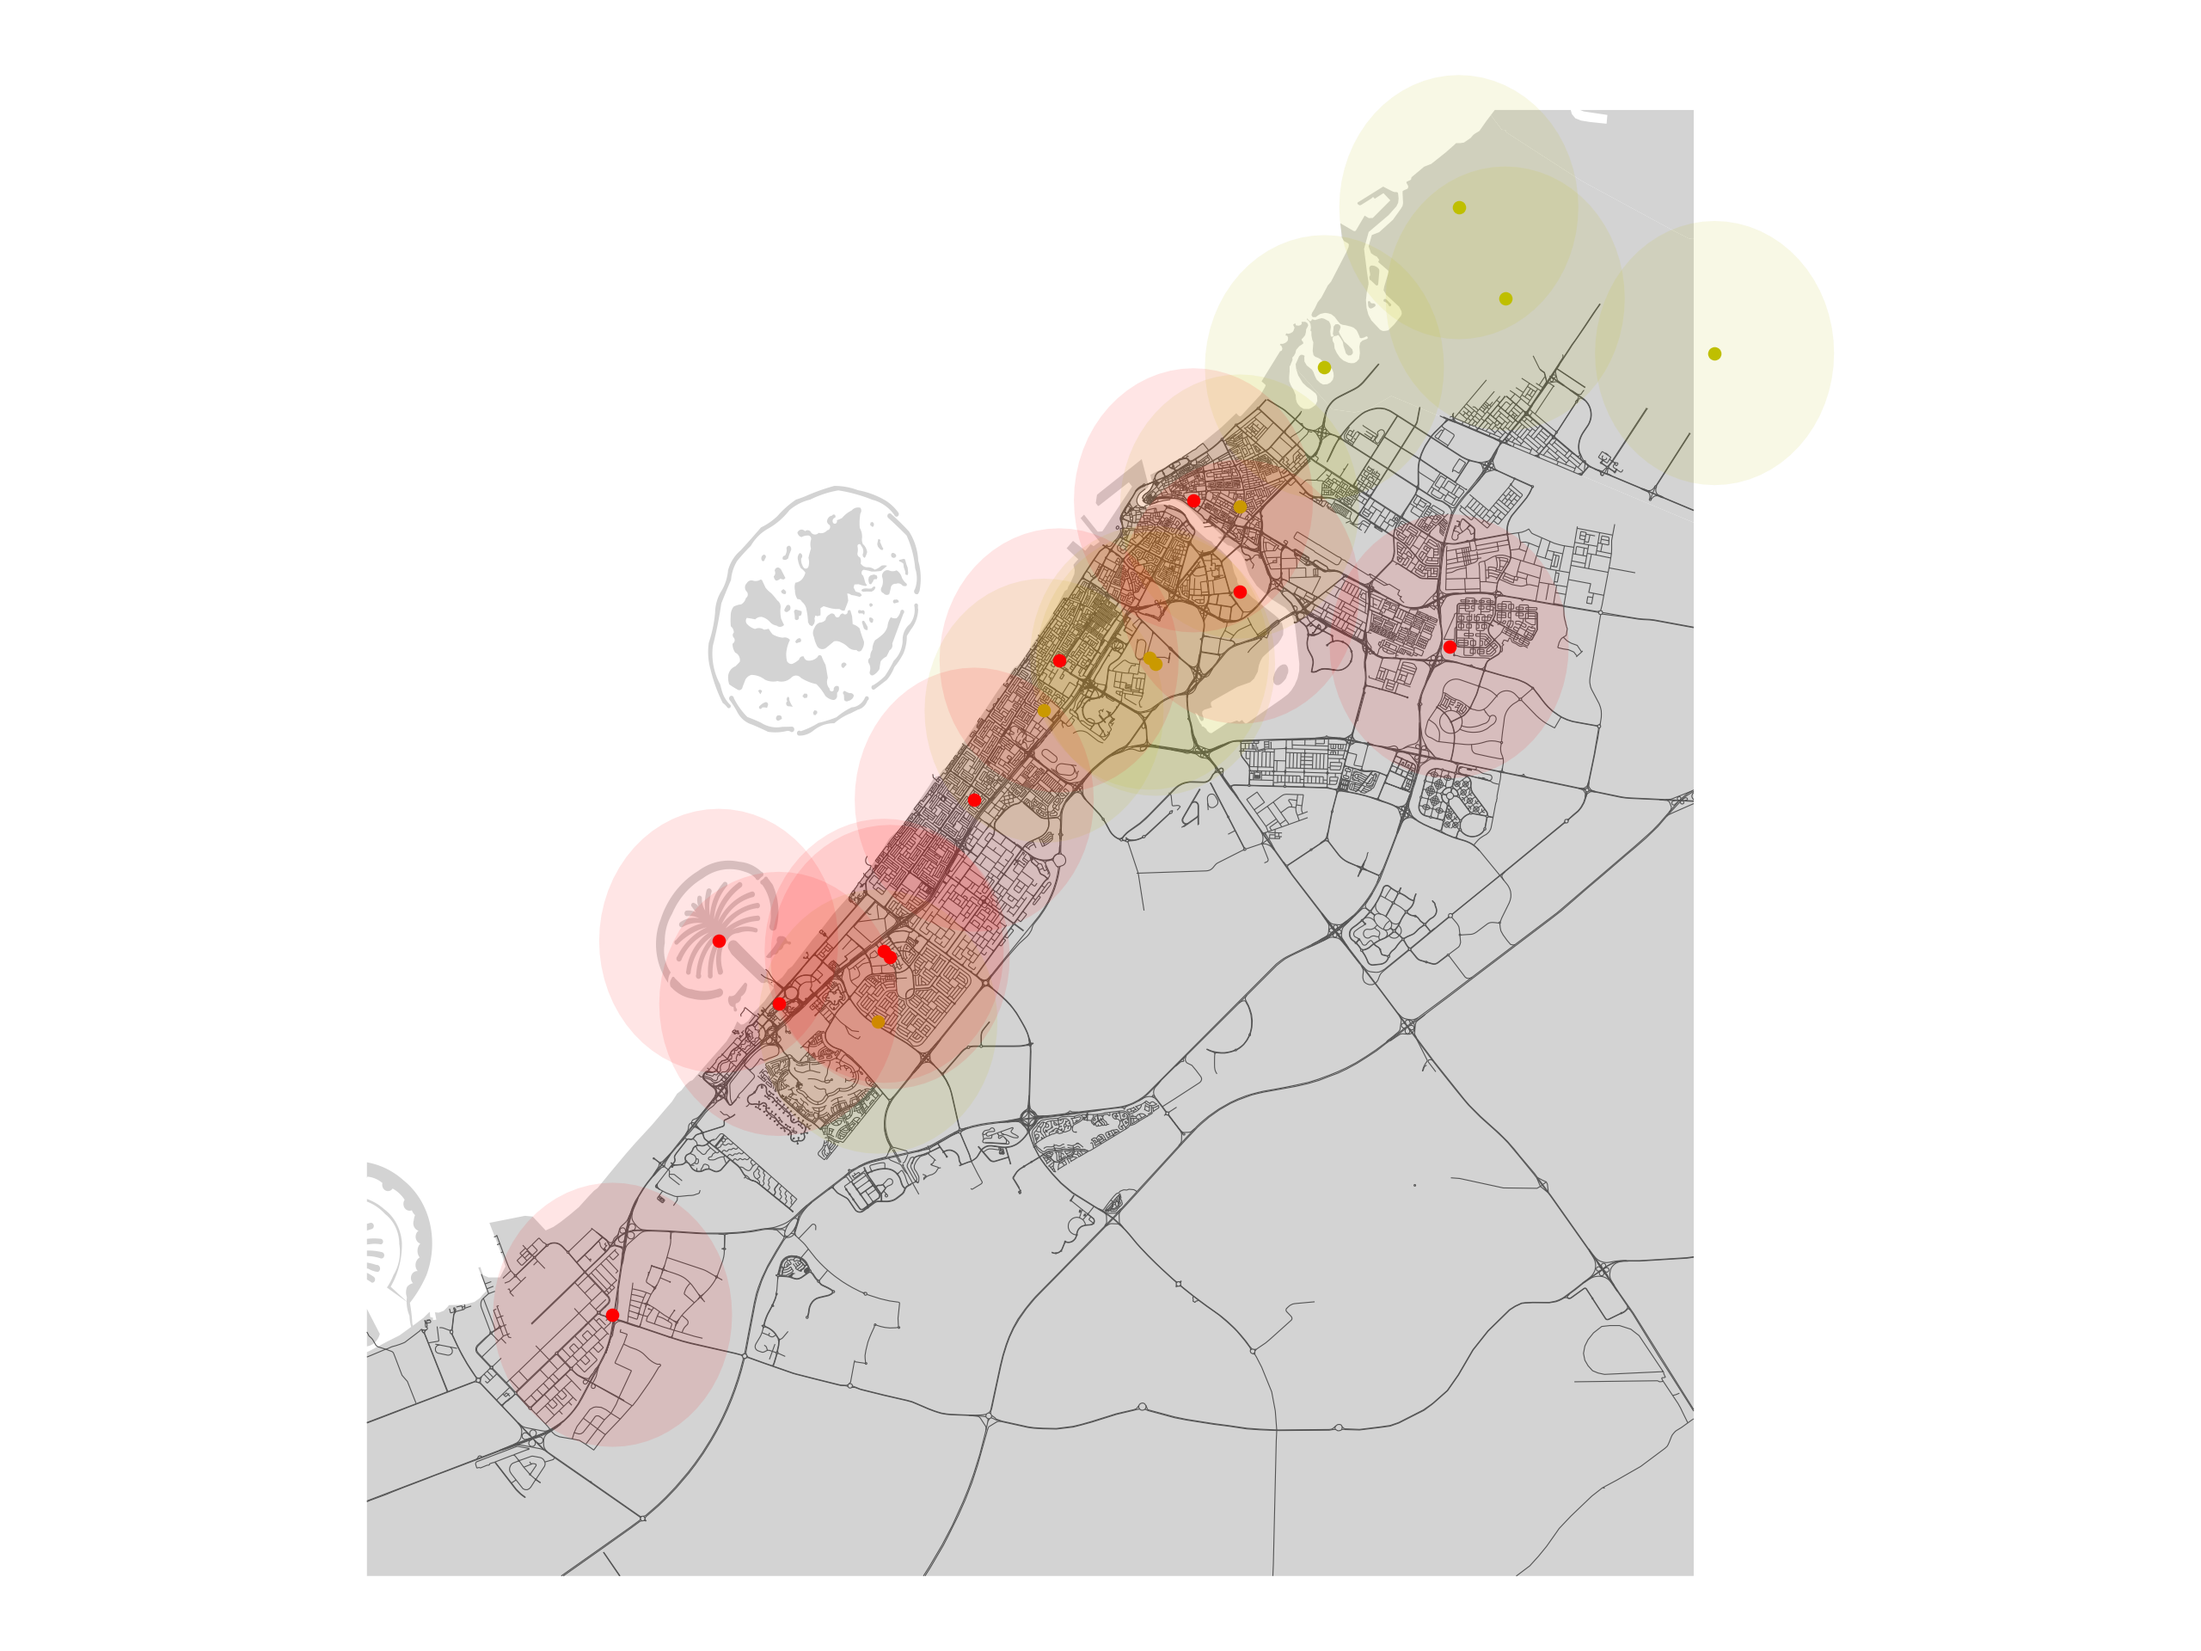
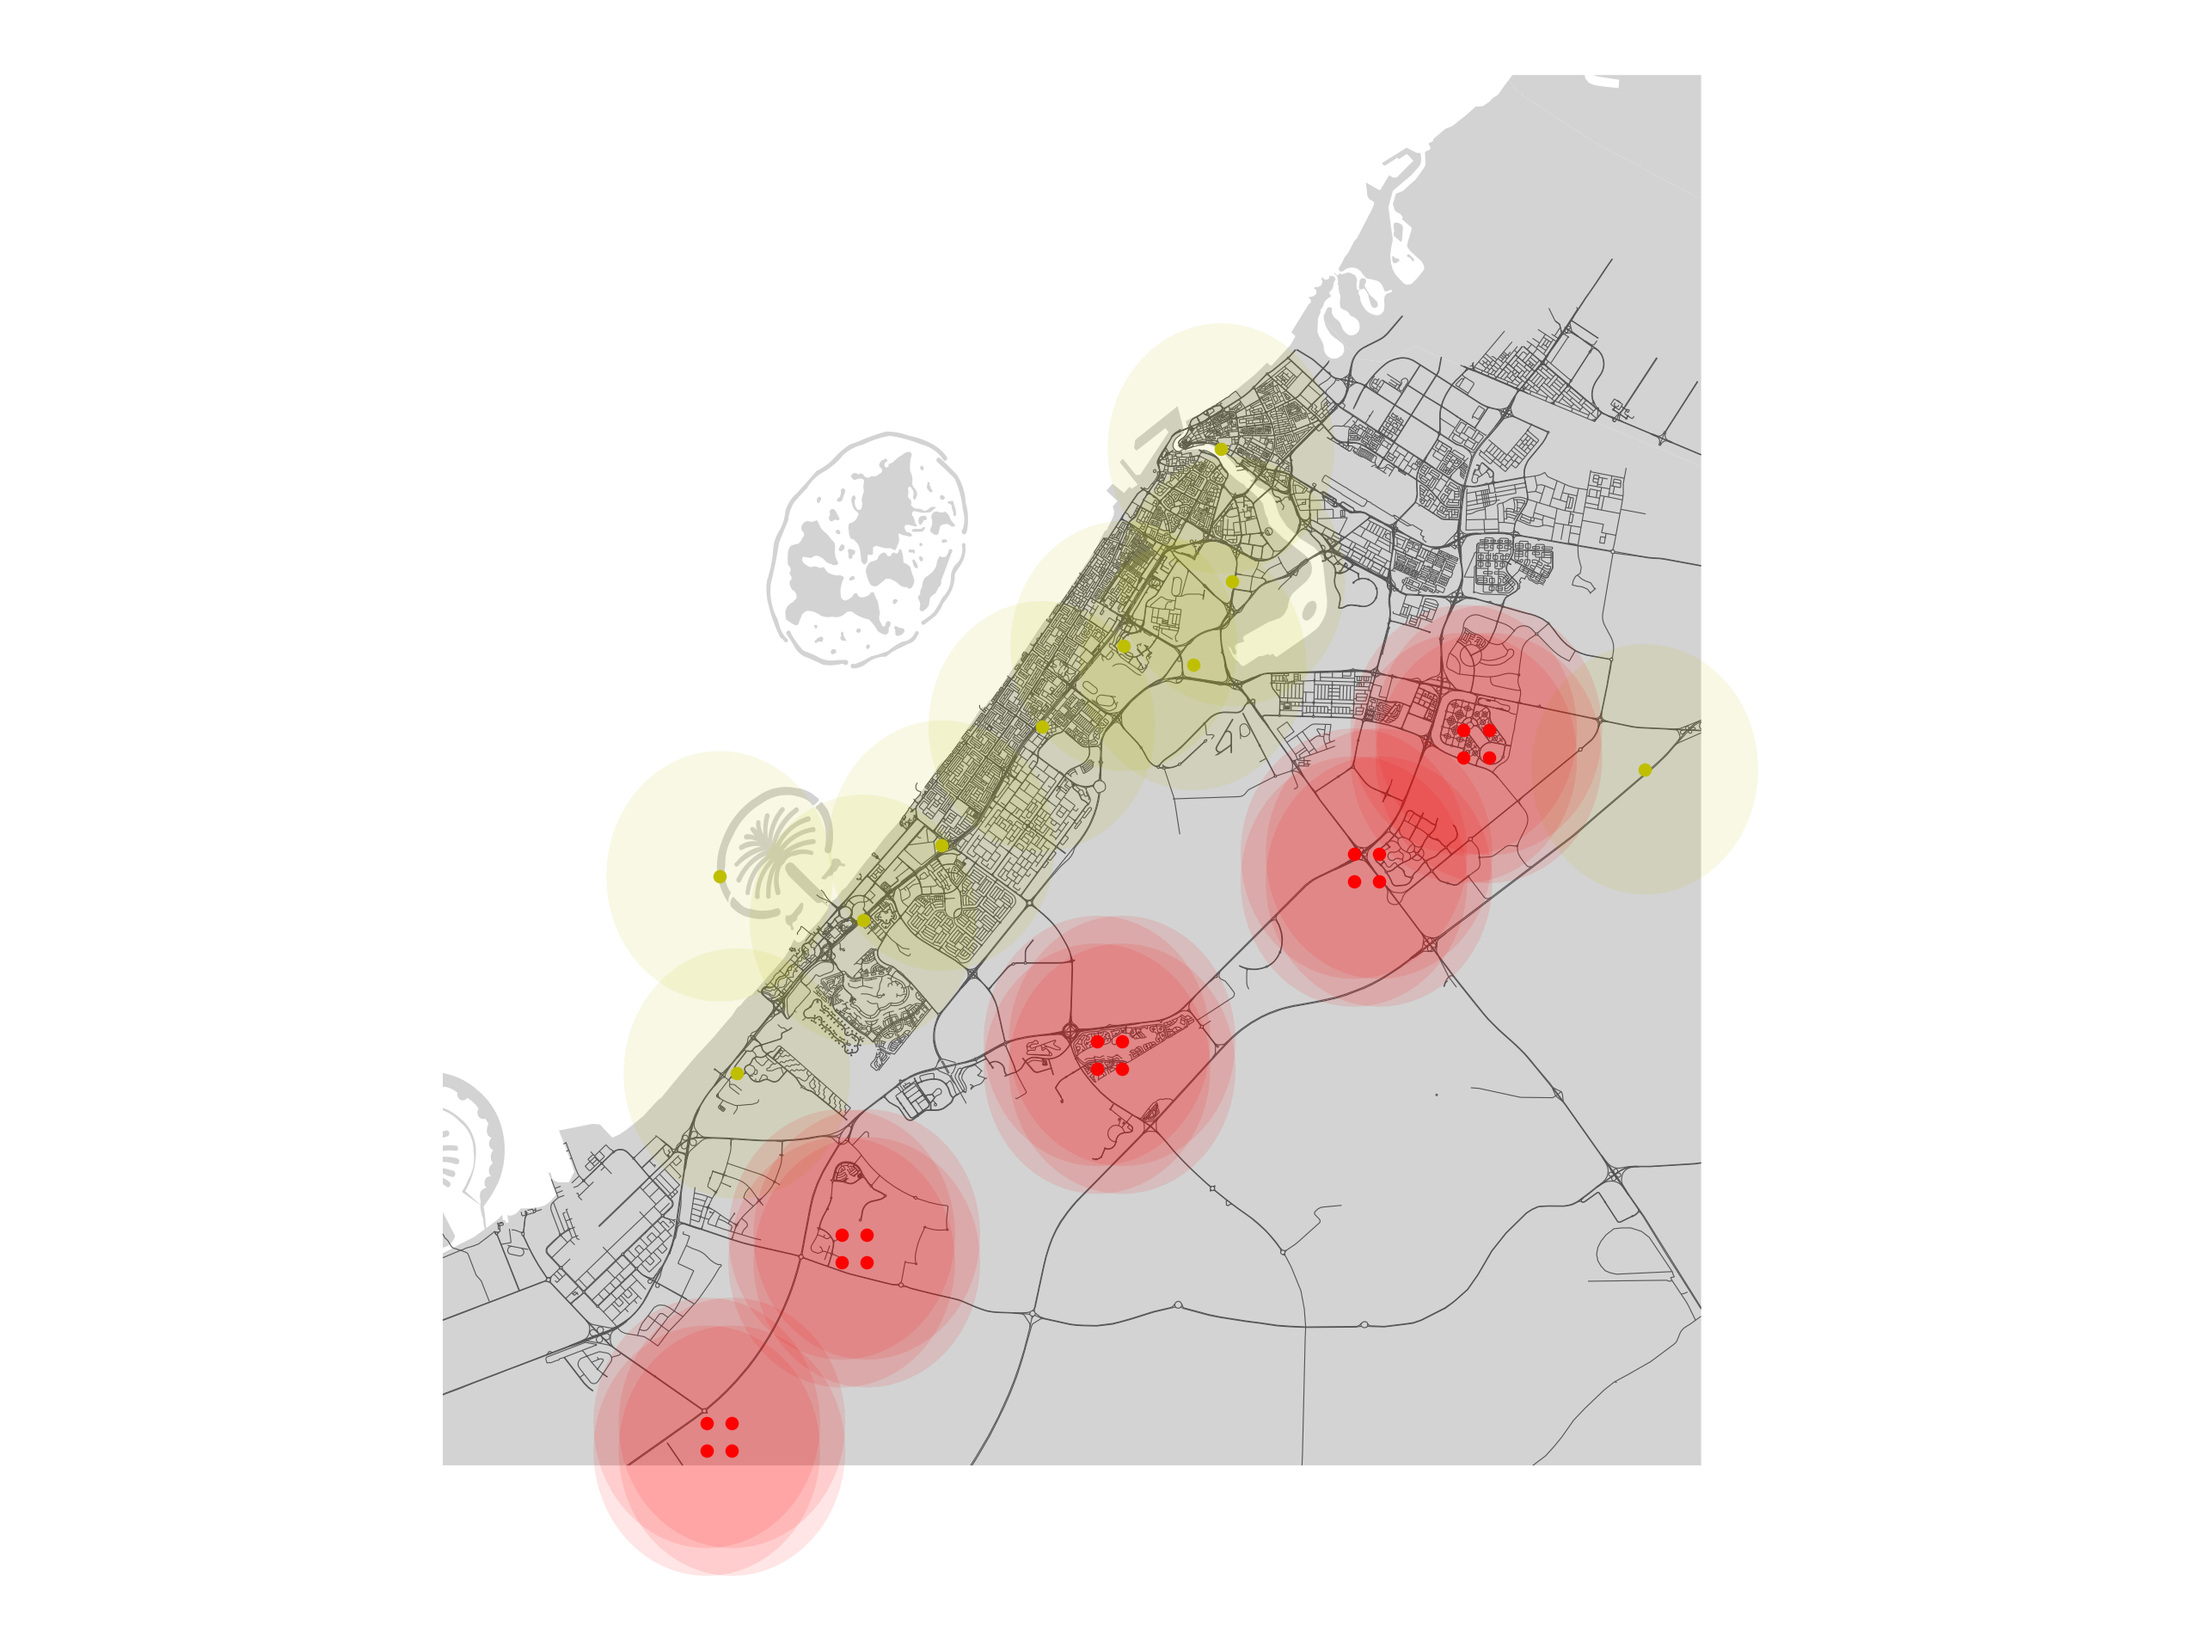
Update data points

Changed region(s): [[0.1562, 0.0312, 0.8438, 0.9688]]

diff --git a/map_viz.py b/map_viz.py
@@ -29,8 +29,8 @@ def viz_results(build_sites, existing_chargers, radius):
     for line in lines:
         temp = line.split()
         points.append(temp[0])
-        lats.append(temp[1])
-        longs.append(temp[2])
+        lats.append(temp[-2])
+        longs.append(temp[-1])
 
     df = pd.DataFrame({'TYPE': ['build site'] * len(points), 'Latitude': lats, 'Longitude': longs})
 
@@ -54,8 +54,8 @@ def viz_results(build_sites, existing_chargers, radius):
     for line in lines:
         temp = line.split()
         points.append(temp[0])
-        lats.append(temp[1])
-        longs.append(temp[2])
+        lats.append(temp[-2])
+        longs.append(temp[-1])
 
     df_charger = pd.DataFrame({'TYPE': ['charger'] * len(points), 'Latitude': lats, 'Longitude': longs})
 
@@ -76,4 +76,4 @@ def viz_results(build_sites, existing_chargers, radius):
 
 
 if __name__ == '__main__':
-    viz_results('points.txt', 'chargers.txt', radius=5)
+    viz_results('build_sites.txt', 'existing.txt', radius=5)
